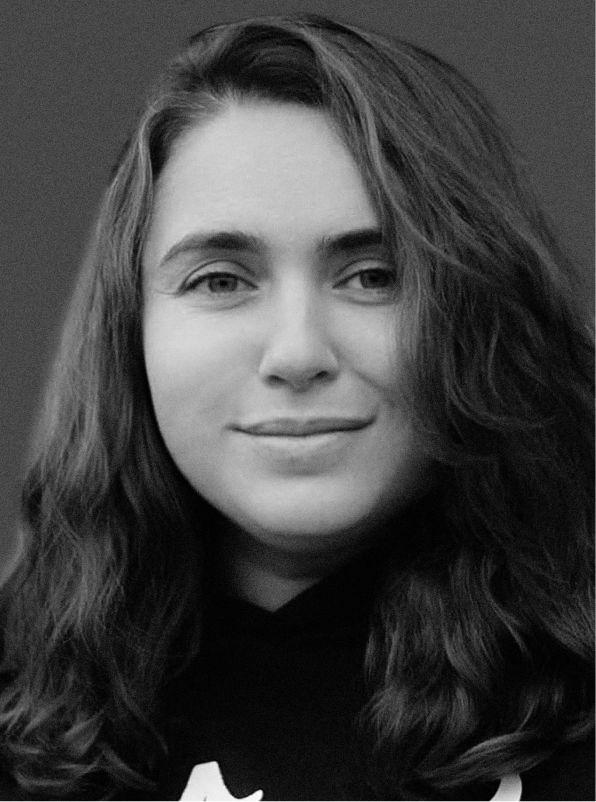
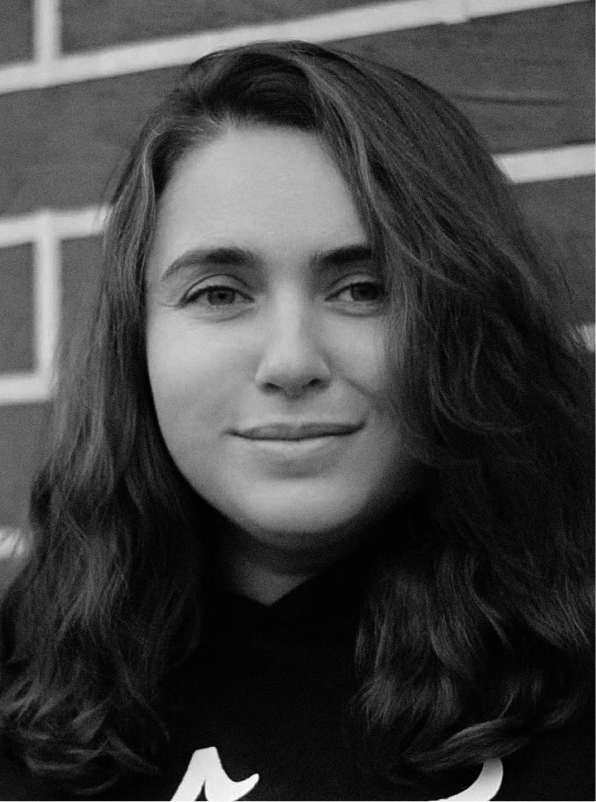
Статья 2: оранжевые портреты и новое начальное фото совета 2.
Обновлены слои --2 для четырёх советов, Anastasia2 и Anastasia2orange.

diff --git a/articles/2/index.html b/articles/2/index.html
@@ -158,7 +158,7 @@
               />
               <img
                 class="art2-tip__portrait-photo art2-tip__portrait-photo--2"
-                src="../../img/figma/article2/Anastasia2.png"
+                src="../../img/figma/article2/Anastasia2orange.png"
                 width="298"
                 height="401"
                 alt=""
